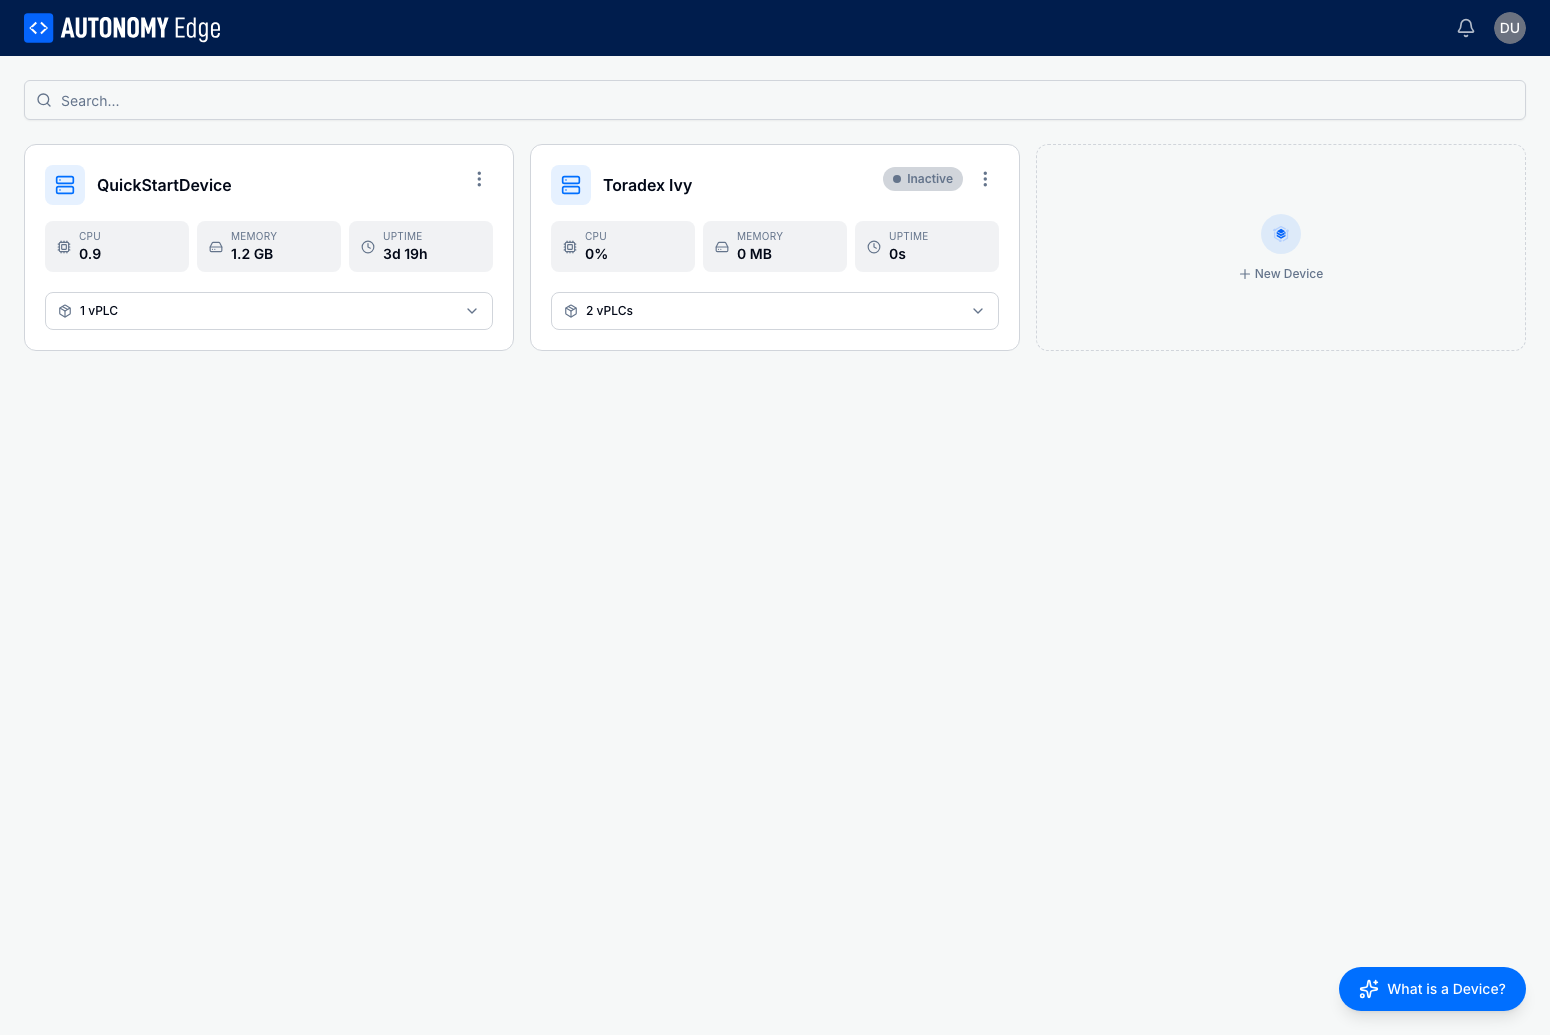
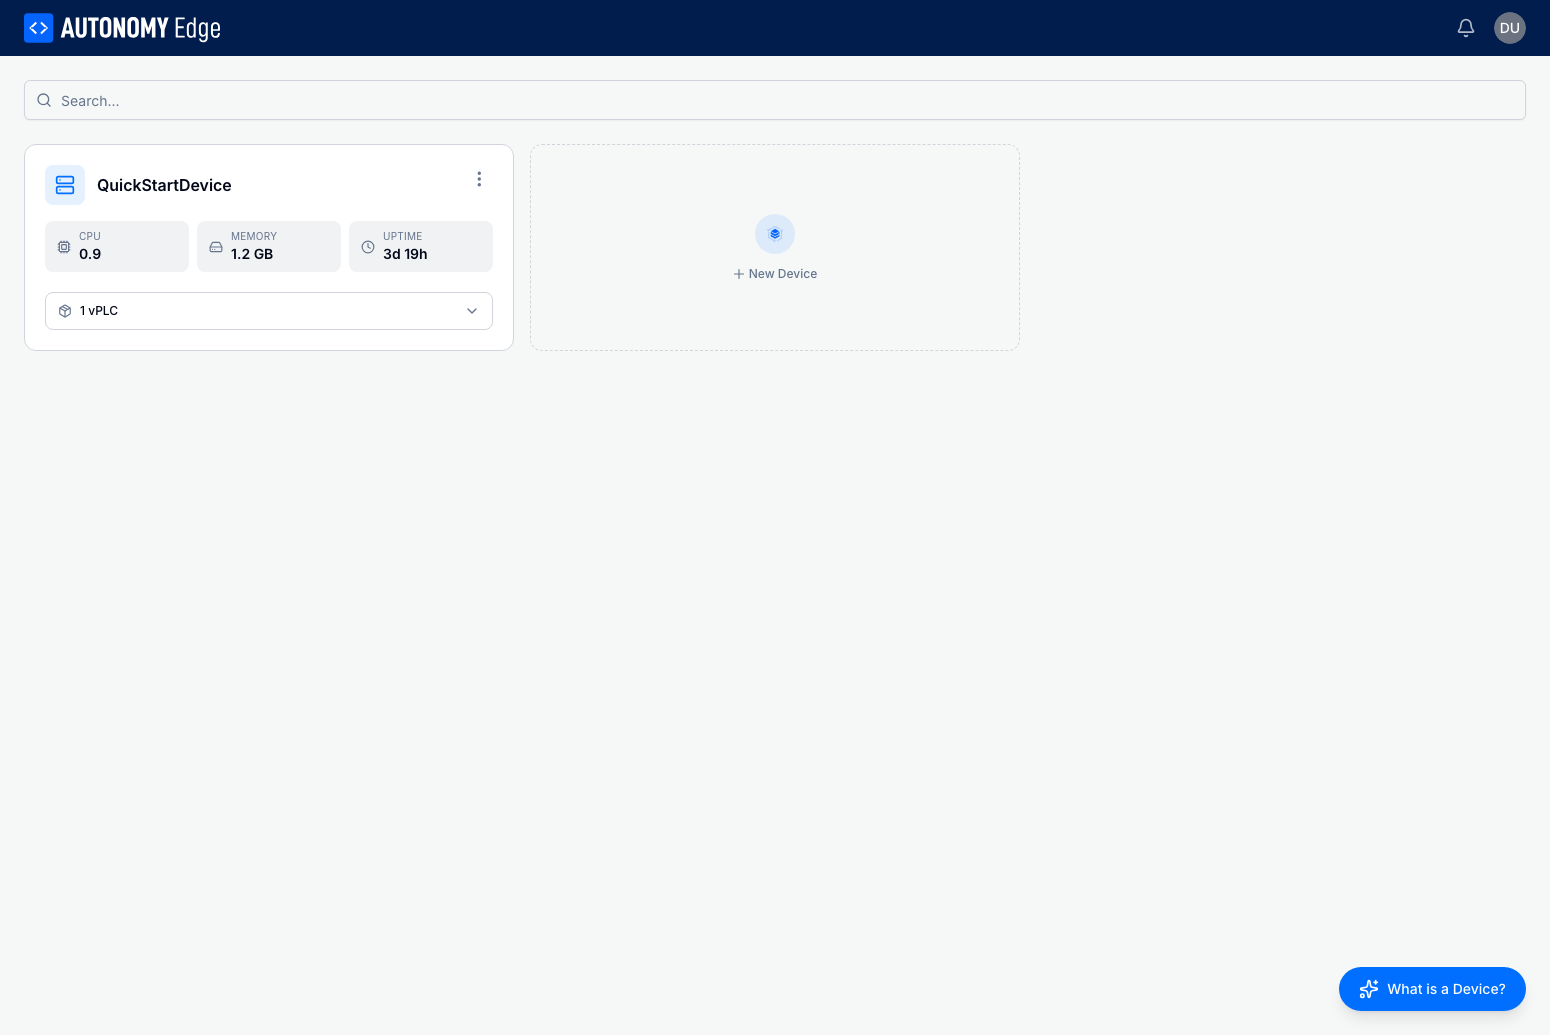
docs(EDGE-659): fix issues found in an independent review
- The array example uses REAL again, matching the assignments further
  down the page, and array-editor.png was retaken with REAL as the base
  type.
- Starter can create and edit an organization like Pro; it just has no
  organization member features. The table now matches the sentence above
  it.
- Settings Usage, the ACU usage capture and the quick start Device and vPLC
  lists were retaken from an account within its Community limits, so the
  tutorial shows only the Device it just created and no over-limit state.

Claude-Session: https://claude.ai/code/session_01SEHN6E4oZKbi6ekw1da6A4

diff --git a/docs/platform/organizations/overview.md b/docs/platform/organizations/overview.md
@@ -42,8 +42,8 @@ Organizations themselves are free to *create* on any plan. Most management featu
 
 | Feature | Community | Starter (personal) | Education | Pro (personal) | Teams | Enterprise |
 |---|---|---|---|---|---|---|
-| Create an org | ✓ | – | ✓ | ✓ | ✓ | ✓ |
-| Edit org profile | ✓ | – | ✓ | ✓ | ✓ | ✓ |
+| Create an org | ✓ | ✓ | ✓ | ✓ | ✓ | ✓ |
+| Edit org profile | ✓ | ✓ | ✓ | ✓ | ✓ | ✓ |
 | Members beyond you | – | – | ✓ (.edu only) | – | ✓ | ✓ |
 | Invitations | – | – | ✓ | – | ✓ | ✓ |
 | Invite Links | – | – | ✓ | – | ✓ | ✓ |
@@ -51,7 +51,7 @@ Organizations themselves are free to *create* on any plan. Most management featu
 | Org-level billing | – | – | ✓ | – | ✓ | ✓ |
 | Shared org ACU pool | – | – | ✓ | – | ✓ | ✓ |
 
-The Starter and Pro plans are *personal*. Starter has no organization features, and Pro doesn't unlock org member management. To collaborate as a team, you want **Teams** (or **Education** for academic institutions).
+The Starter and Pro plans are *personal*. They don't unlock org features. To collaborate as a team, you want **Teams** (or **Education** for academic institutions).
 
 See **[Pricing](../../plans-and-billing/pricing)** for the full breakdown.
 

diff --git a/docs/openplc-editor/custom-data-types/array-datatypes.md b/docs/openplc-editor/custom-data-types/array-datatypes.md
@@ -6,7 +6,7 @@ An array is an ordered collection of elements that all share the same base type.
 
 Creating a type with **Array** as the derivation opens this editor:
 
-![Array editor for the TempReadings type: a Name field set to "TempReadings", a Base Type dropdown showing BOOL, an Initial Value text field, and a Dimensions section with one row showing "0..9"](images/array-editor.png)
+![Array editor for the TempReadings type: a Name field set to "TempReadings", a Base Type dropdown showing REAL, an Initial Value text field, and a Dimensions section with one row showing "0..9"](images/array-editor.png)
 
 Three things to fill in:
 
@@ -40,7 +40,7 @@ The IEC declaration syntax for the type, shown in code mode, looks like this:
 
 ```iec
 TYPE
-    TempReadings : ARRAY[0..9] OF BOOL;
+    TempReadings : ARRAY[0..9] OF REAL;
 END_TYPE
 ```
 
